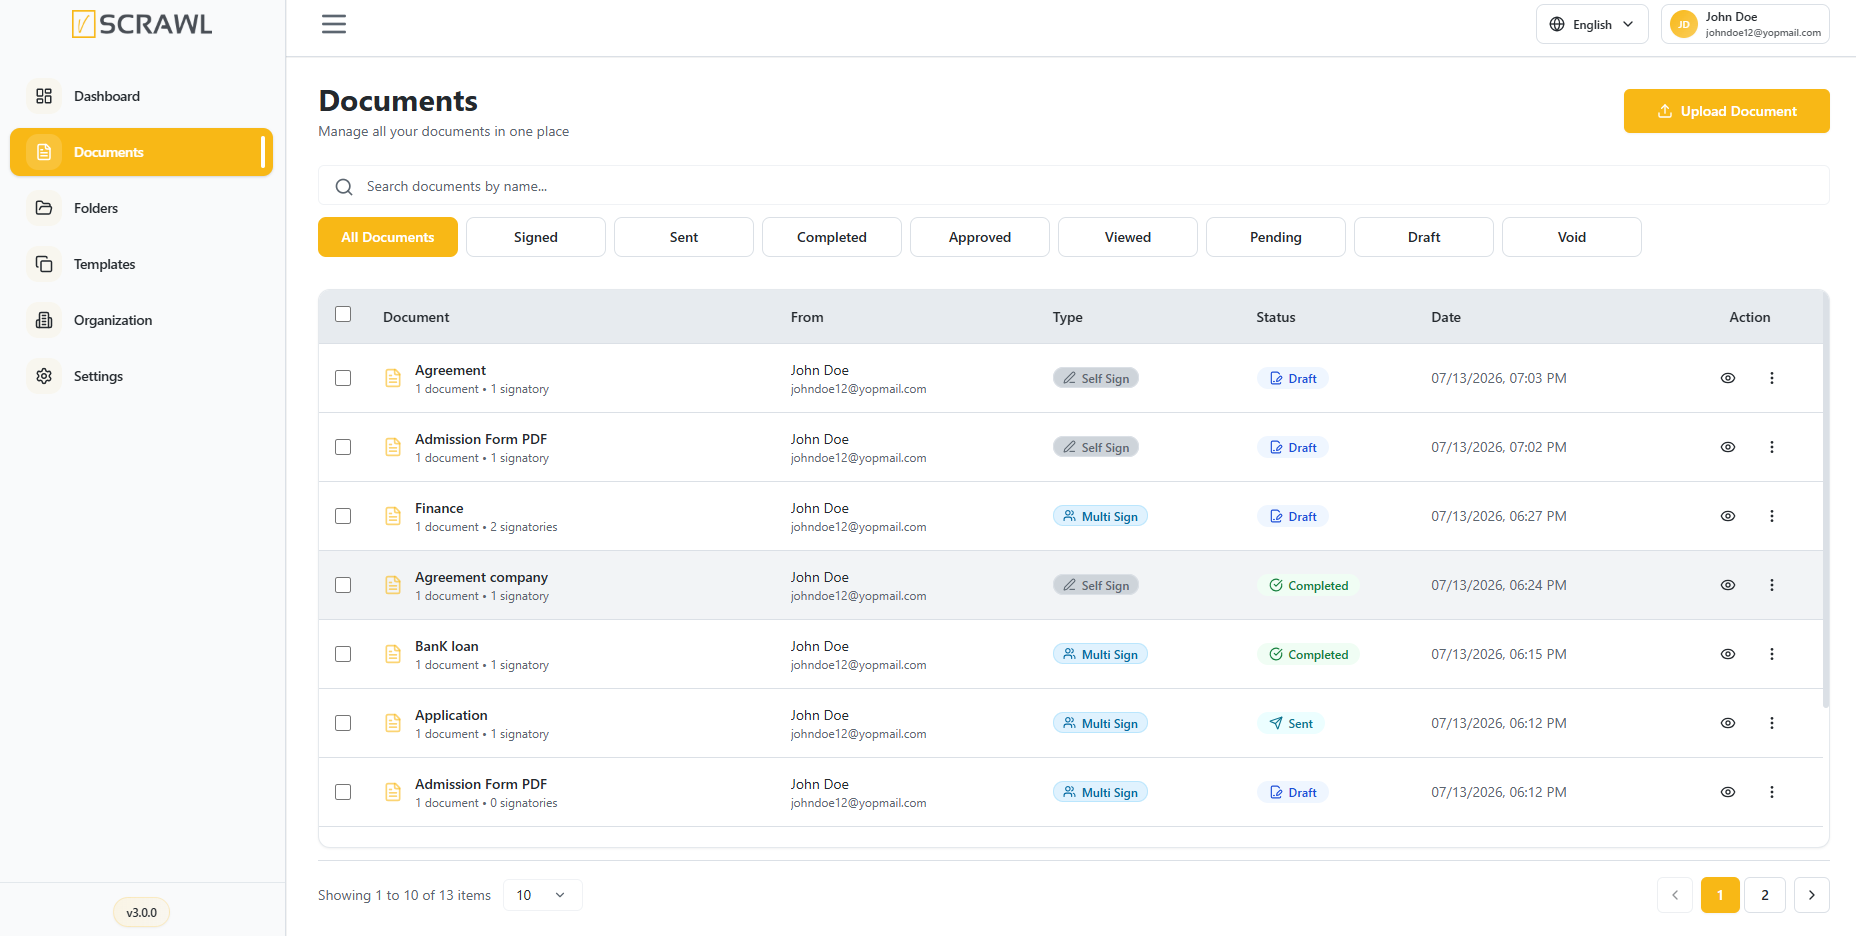
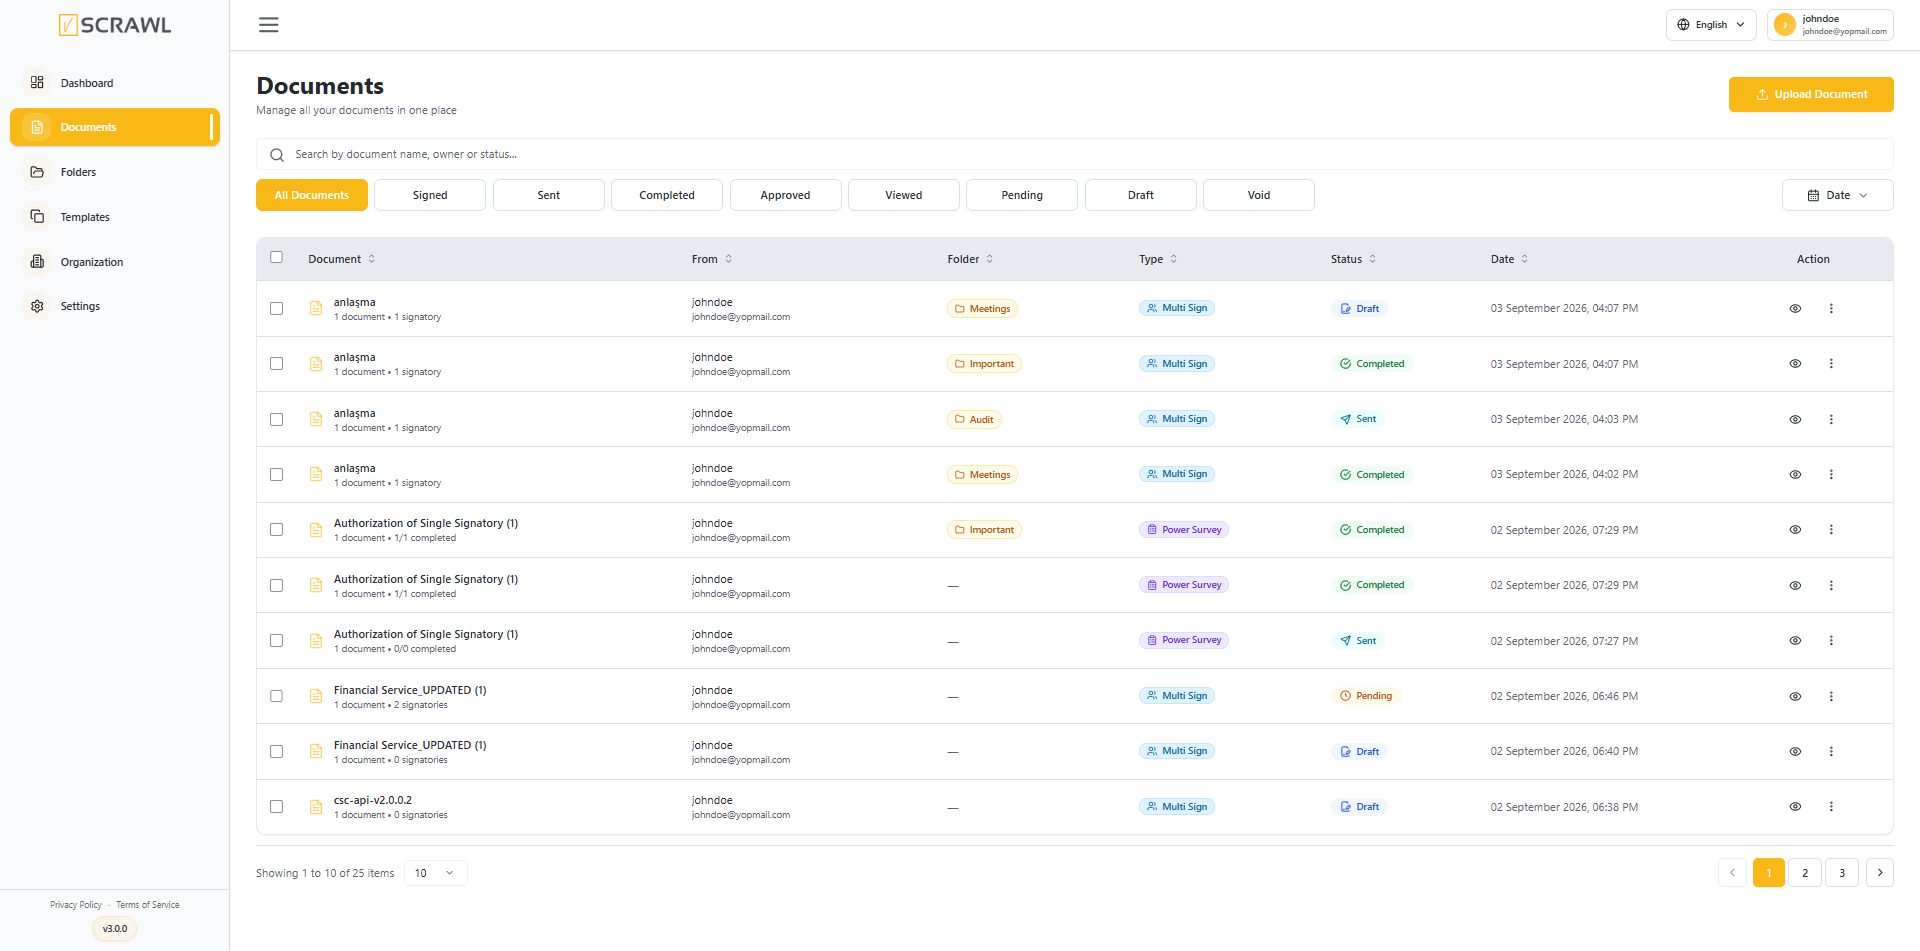
change documentation

diff --git a/docs/documents.md b/docs/documents.md
@@ -41,6 +41,14 @@ Search results can be further refined using the document status filters availabl
 
 For example, you can search for **"Authorization"** and then select the **Completed** filter to view only completed authorization documents.
 
+### Folder Column
+
+The document list includes a **Folder** column that shows which folder each document has been filed into, making it easy to see how your documents are organized at a glance.
+
+- Documents that have not been placed in a folder show a dash (**—**).
+- Click the **Folder** column header to sort documents alphabetically by folder name, just like the other sortable columns.
+- To file a document into a folder, or move it to a different one, use the **Move** option from the document's action menu (see below).
+
 ### Uploading Single and Multiple Documents
 
 At the top of the **Documents,** you will find the **Upload Document** button, the primary action for starting a workflow. Clicking it opens a **Choose signing method** dialog with three options:

diff --git a/docs/dashboard.md b/docs/dashboard.md
@@ -81,6 +81,7 @@ Each document entry includes:
 - **Document Name** – The title of the document.
 - **Document Details** – Information such as document count and number of signatories.
 - **Sender Information** – The user who created or submitted the document.
+- **Folder** – The folder the document has been filed into, if any. Documents that are not in a folder show a dash (—).
 - **Status** – The current stage of the document workflow.
 - **Date** – The date and time of the most recent activity.
 - **Actions** – Available options for viewing or managing the document.
